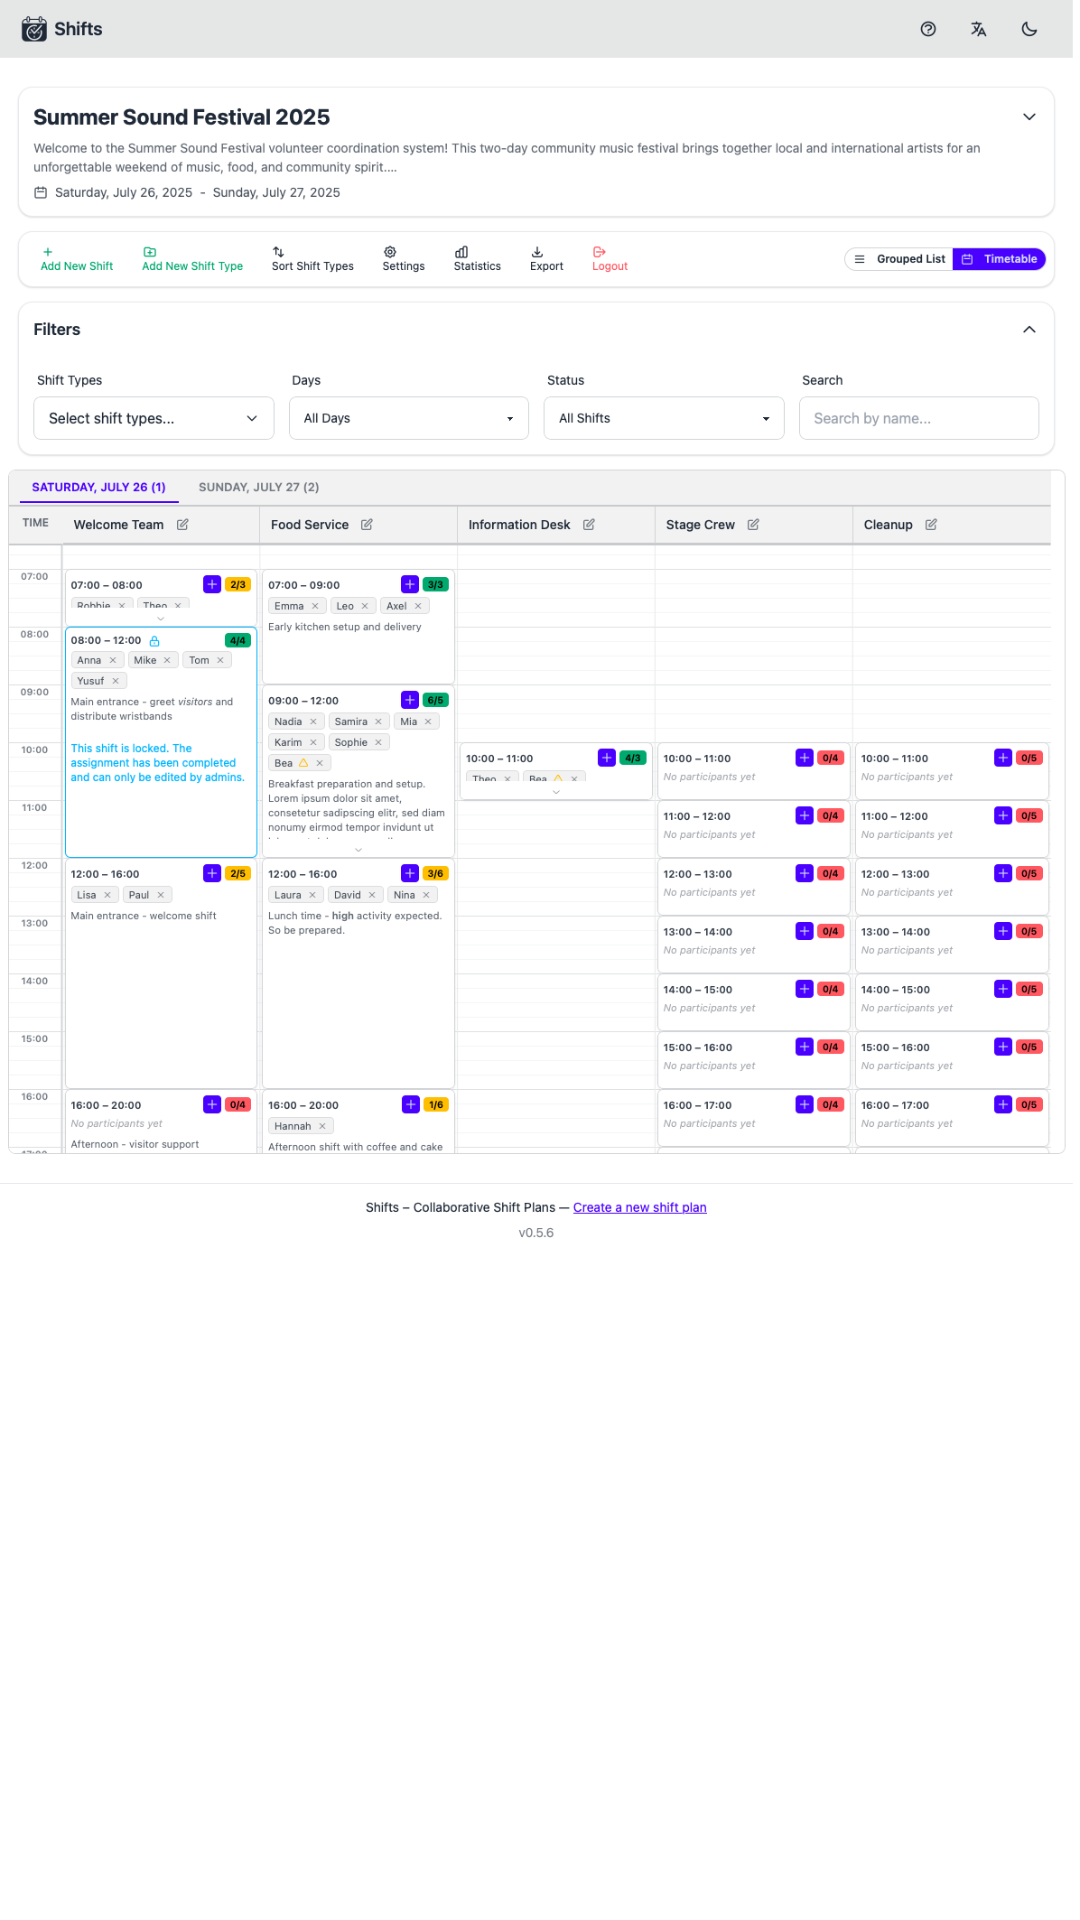
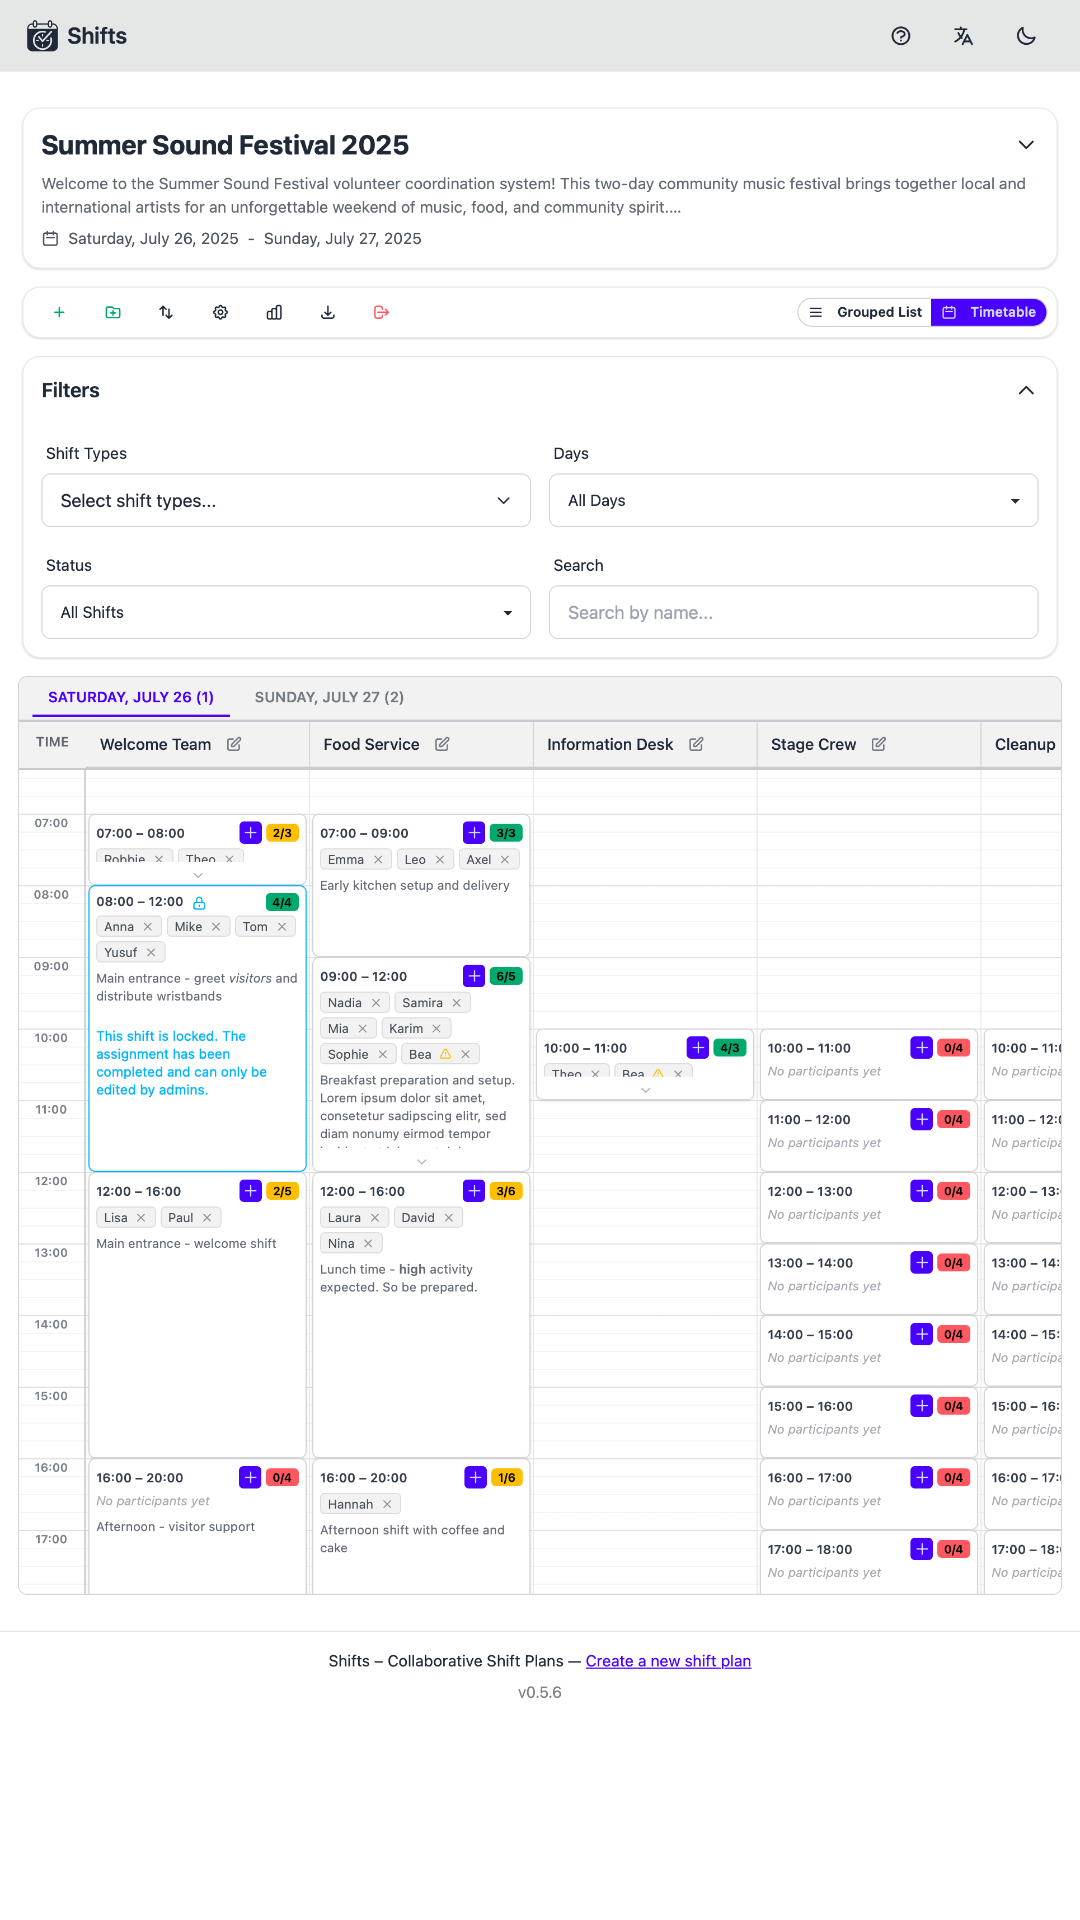
enhancement: new readme content (wip v8)

diff --git a/README.md b/README.md
@@ -18,19 +18,27 @@ The application was developed out of frustration that existing tools were either
   <img src="opt/showcase-01.png" alt="List View" width="45%" style="display: inline-block; vertical-align: top; margin-right: 2%;">
   <img src="opt/showcase-02.png" alt="Table View" width="45%" style="display: inline-block; vertical-align: top;">
 </p>
-<p align="center">
-  <span style="display: inline-block; width: 45%; text-align: center; margin-right: 2%;">Create a new shift plan.</span>
-  <span style="display: inline-block; width: 45%; text-align: center;">List view</span>
-</p>
+<div style="display: flex; justify-content: center; align-items: flex-start; gap: 2%; margin-bottom: 0.5em;">
+  <div style="width: 45%; text-align: center;">
+    <img src="opt/showcase-01.png" alt="Create a new shift plan." width="100%" style="display: block; margin: 0 auto;" />
+    <div style="margin-top: 0.5em;">Create a new shift plan.</div>
+  </div>
+  <div style="width: 45%; text-align: center;">
+    <img src="opt/showcase-02.png" alt="List view" width="100%" style="display: block; margin: 0 auto;" />
+    <div style="margin-top: 0.5em;">List view</div>
+  </div>
+</div>
 
-<p align="center">
-  <img src="opt/showcase-03.png" alt="Admin Panel" width="45%" style="display: inline-block; vertical-align: top; margin-right: 2%;">
-  <img src="opt/showcase-04.png" alt="Statistics View" width="45%" style="display: inline-block; vertical-align: top;">
-</p>
-<p align="center">
-  <span style="display: inline-block; width: 45%; text-align: center; margin-right: 2%;">Table view.</span>
-  <span style="display: inline-block; width: 45%; text-align: center;">Edit shifts and shift types.</span>
-</p>
+<div style="display: flex; justify-content: center; align-items: flex-start; gap: 2%; margin-bottom: 0.5em;">
+  <div style="width: 45%; text-align: center;">
+    <img src="opt/showcase-03.png" alt="Table view." width="100%" style="display: block; margin: 0 auto;" />
+    <div style="margin-top: 0.5em;">Table view.</div>
+  </div>
+  <div style="width: 45%; text-align: center;">
+    <img src="opt/showcase-04.png" alt="Edit shifts and shift types." width="100%" style="display: block; margin: 0 auto;" />
+    <div style="margin-top: 0.5em;">Edit shifts and shift types.</div>
+  </div>
+</div>
 
 ## Features
 
